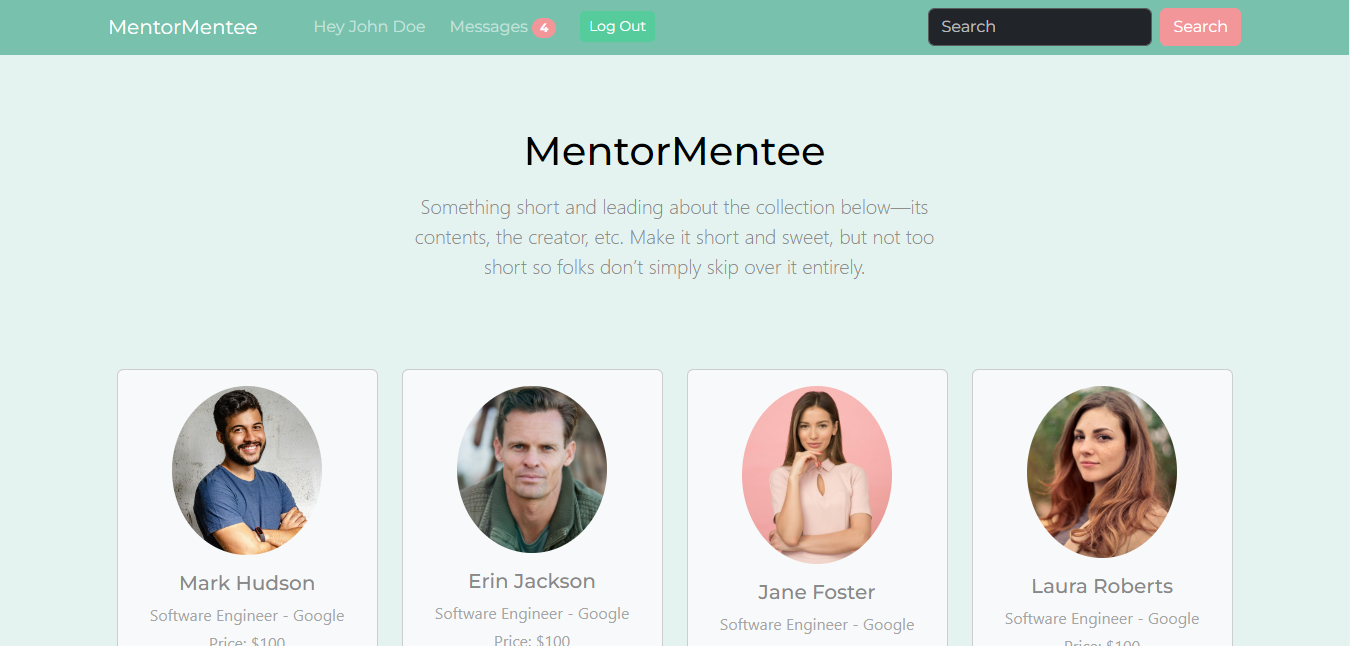
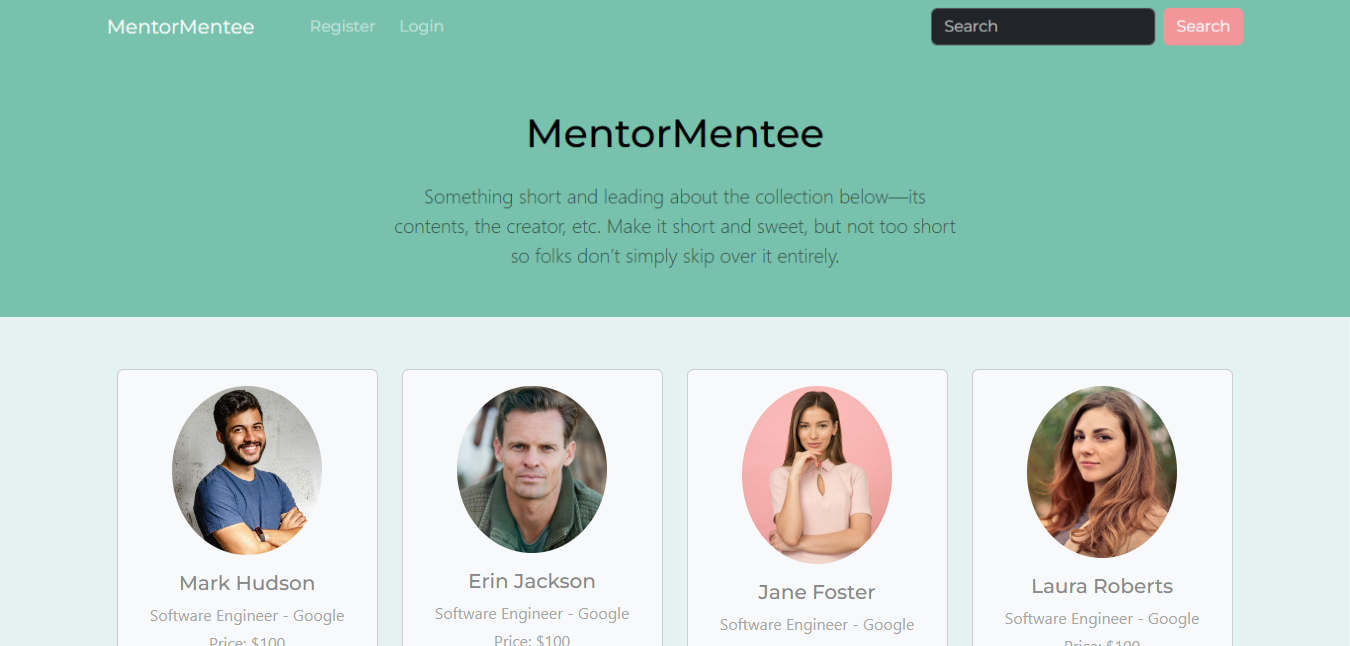
complete

diff --git a/base/templates/base/home.html b/base/templates/base/home.html
@@ -1,14 +1,17 @@
 {% extends "base/base.html" %}
 
-{% block content %}
-<div class="px-4 py-4 my-5 text-center">
+{% block hero %}
+<div class="pt-5 pb-4 mb-5 text-center">
   <!-- <img class="d-block mx-auto mb-4" src="../assets/brand/bootstrap-logo.svg" alt="" width="72" height="57"> -->
-  <h1 class="text-body-emphasis mb-3">MentorMentee</h1>
-  <div class="col-lg-6 mx-auto">
-    <p class="lead">Something short and leading about the collection below—its contents, the creator, etc. Make
+  <h1 class="text-body-emphasis pt-2 mb-4">MentorMentee</h1>
+  <div class="col-lg-6 mx-auto px-5 pb-2">
+    <p class="lead text-primary-emphasis">Something short and leading about the collection below—its contents, the creator, etc. Make
       it short and sweet, but not too short so folks don’t simply skip over it entirely.</p>
   </div>
 </div>
+{% endblock hero %}
+
+{% block content %}
 <div class="row my-5">
   {% for mentor in mentor_list %}
   <div class="col-lg-3">

diff --git a/base/templates/base/base.html b/base/templates/base/base.html
@@ -129,9 +129,12 @@
       {% endfor %}
 
   {% endif %}
+  <div class='bg-primary'>
+    {% block hero %}{% endblock hero %}
+  </div>
   <div class='container'>
     {% block content %}{% endblock content %}
-    <div>
+  </div>
 </body>
 <script src="{% static "bootstrap.bundle.min.js" %}"></script>
 <script>

diff --git a/base/migrations/0001_initial.py b/base/migrations/0001_initial.py
@@ -1,0 +1,94 @@
+# Generated by Django 5.0.3 on 2025-12-21 15:58
+
+import django.contrib.auth.models
+import django.contrib.auth.validators
+import django.db.models.deletion
+import django.utils.timezone
+from django.conf import settings
+from django.db import migrations, models
+
+
+class Migration(migrations.Migration):
+
+    initial = True
+
+    dependencies = [
+        ('auth', '0012_alter_user_first_name_max_length'),
+    ]
+
+    operations = [
+        migrations.CreateModel(
+            name='ChatRoom',
+            fields=[
+                ('id', models.BigAutoField(auto_created=True, primary_key=True, serialize=False, verbose_name='ID')),
+                ('name', models.CharField(max_length=50, unique=True)),
+                ('created', models.DateTimeField(auto_now_add=True)),
+            ],
+            options={
+                'ordering': ['-created'],
+            },
+        ),
+        migrations.CreateModel(
+            name='User',
+            fields=[
+                ('id', models.BigAutoField(auto_created=True, primary_key=True, serialize=False, verbose_name='ID')),
+                ('password', models.CharField(max_length=128, verbose_name='password')),
+                ('last_login', models.DateTimeField(blank=True, null=True, verbose_name='last login')),
+                ('is_superuser', models.BooleanField(default=False, help_text='Designates that this user has all permissions without explicitly assigning them.', verbose_name='superuser status')),
+                ('username', models.CharField(error_messages={'unique': 'A user with that username already exists.'}, help_text='Required. 150 characters or fewer. Letters, digits and @/./+/-/_ only.', max_length=150, unique=True, validators=[django.contrib.auth.validators.UnicodeUsernameValidator()], verbose_name='username')),
+                ('first_name', models.CharField(blank=True, max_length=150, verbose_name='first name')),
+                ('last_name', models.CharField(blank=True, max_length=150, verbose_name='last name')),
+                ('email', models.EmailField(blank=True, max_length=254, verbose_name='email address')),
+                ('is_staff', models.BooleanField(default=False, help_text='Designates whether the user can log into this admin site.', verbose_name='staff status')),
+                ('is_active', models.BooleanField(default=True, help_text='Designates whether this user should be treated as active. Unselect this instead of deleting accounts.', verbose_name='active')),
+                ('date_joined', models.DateTimeField(default=django.utils.timezone.now, verbose_name='date joined')),
+                ('type', models.CharField(choices=[('mentor', 'Mentor'), ('mentee', 'Mentee')], default='mentee', max_length=25)),
+                ('groups', models.ManyToManyField(blank=True, help_text='The groups this user belongs to. A user will get all permissions granted to each of their groups.', related_name='user_set', related_query_name='user', to='auth.group', verbose_name='groups')),
+                ('user_permissions', models.ManyToManyField(blank=True, help_text='Specific permissions for this user.', related_name='user_set', related_query_name='user', to='auth.permission', verbose_name='user permissions')),
+            ],
+            options={
+                'verbose_name': 'user',
+                'verbose_name_plural': 'users',
+                'abstract': False,
+            },
+            managers=[
+                ('objects', django.contrib.auth.models.UserManager()),
+            ],
+        ),
+        migrations.CreateModel(
+            name='Chat',
+            fields=[
+                ('id', models.BigAutoField(auto_created=True, primary_key=True, serialize=False, verbose_name='ID')),
+                ('message', models.TextField()),
+                ('created', models.DateTimeField(auto_now_add=True)),
+                ('is_read', models.BooleanField(default=False)),
+                ('reciever', models.ForeignKey(null=True, on_delete=django.db.models.deletion.SET_NULL, related_name='recieved_chats', to=settings.AUTH_USER_MODEL)),
+                ('sender', models.ForeignKey(null=True, on_delete=django.db.models.deletion.SET_NULL, related_name='sent_chats', to=settings.AUTH_USER_MODEL)),
+                ('room', models.ForeignKey(on_delete=django.db.models.deletion.CASCADE, to='base.chatroom')),
+            ],
+            options={
+                'ordering': ['created'],
+            },
+        ),
+        migrations.CreateModel(
+            name='Mentor',
+            fields=[
+                ('id', models.BigAutoField(auto_created=True, primary_key=True, serialize=False, verbose_name='ID')),
+                ('name', models.CharField(max_length=50)),
+                ('slug', models.SlugField(unique=True)),
+                ('image', models.ImageField(upload_to='images')),
+                ('email', models.EmailField(max_length=254)),
+                ('job_title', models.CharField(blank=True, max_length=50)),
+                ('price', models.IntegerField(blank=True, null=True)),
+                ('category', models.CharField(blank=True, max_length=50)),
+                ('skill', models.CharField(blank=True, max_length=50)),
+                ('description', models.TextField(blank=True)),
+                ('approved', models.BooleanField(default=False)),
+                ('created', models.DateTimeField(auto_now_add=True)),
+                ('user', models.OneToOneField(on_delete=django.db.models.deletion.CASCADE, to=settings.AUTH_USER_MODEL)),
+            ],
+            options={
+                'ordering': ['-created'],
+            },
+        ),
+    ]
